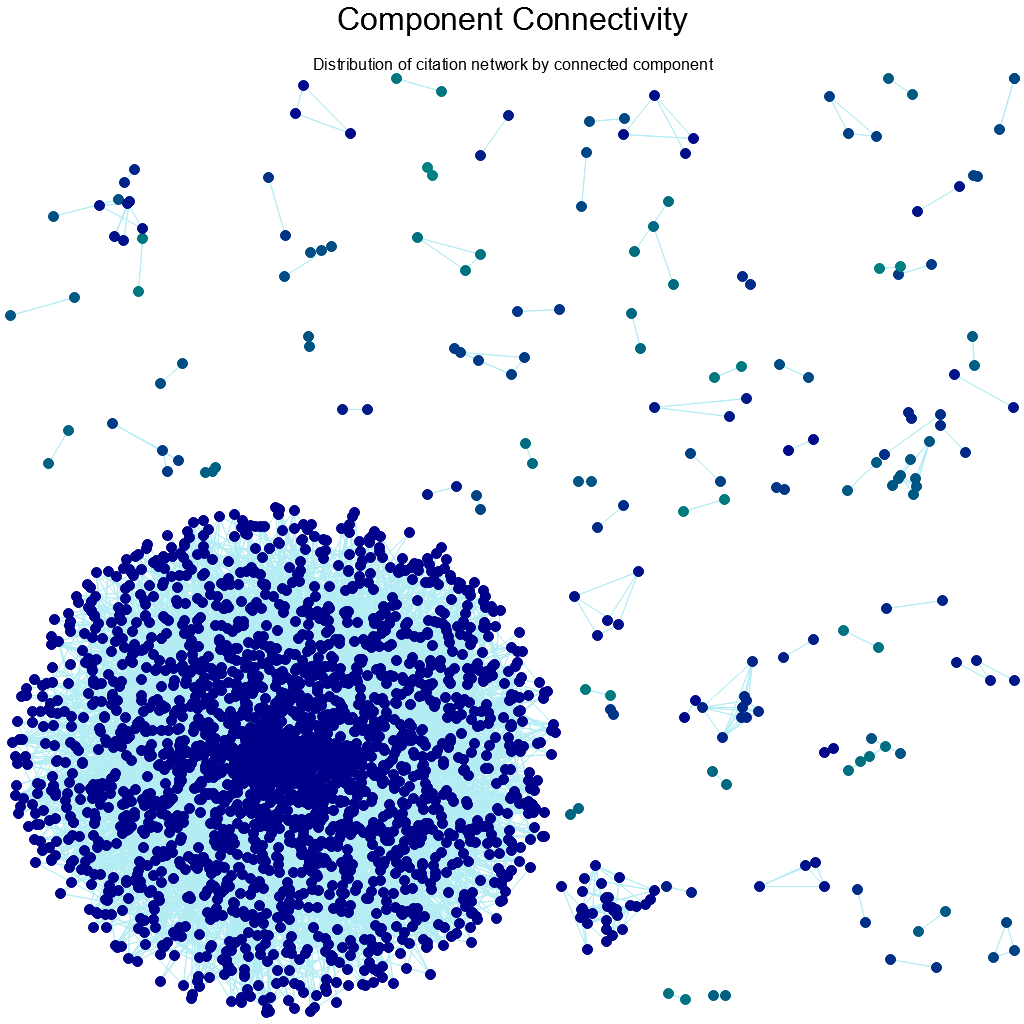
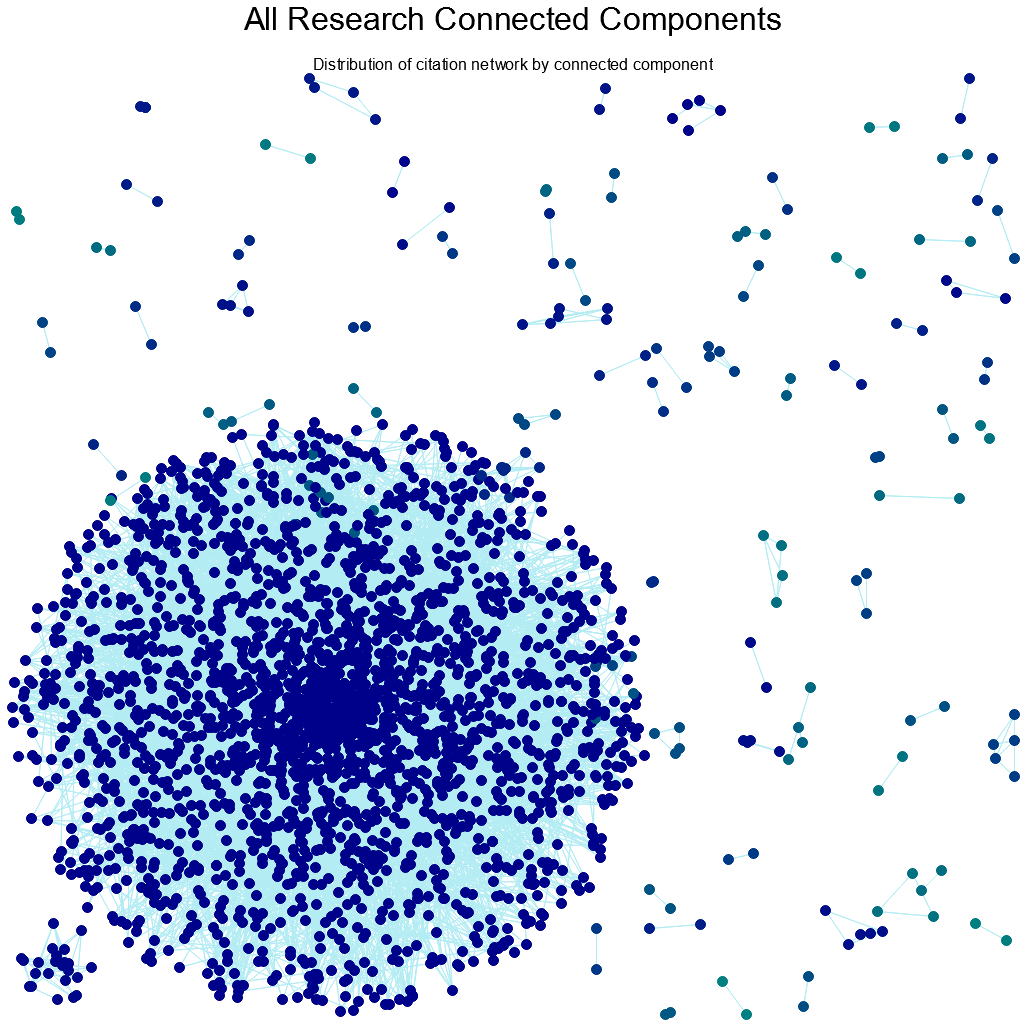
Implemented SubGraph Plotting

diff --git a/src/graph/mod.rs b/src/graph/mod.rs
@@ -2,7 +2,8 @@ pub mod component_functions;
 pub mod visualization_support;
 
 use std::collections::{HashMap,VecDeque};
-
+use plotters::prelude::*;
+use rand::Rng;
 type Vertex = usize;
 type Edge = (Vertex, Vertex);
 type AdjacencyList = Vec<Vec<Vertex>>;
@@ -10,11 +11,11 @@ type Component = usize;
 
 #[derive(Debug,Clone)]
 #[allow(dead_code)] //Allowed for now until ML features get developed
-struct NodeData{
-    mapped_node:usize,
-    label:String,
-    subject:String,
-    features:Vec<u8>
+pub struct NodeData{
+    pub mapped_node:usize,
+    pub label:String,
+    pub subject:String,
+    pub features:Vec<u8>
 }
 //Function for NodeData to read from csv
 impl NodeData{
@@ -95,6 +96,48 @@ impl Graph{
         
         return Ok(Graph::create_directed(node_data.len(),&edges,node_data,reverse_hash));
     }
+    
+    pub fn calculate_subgraphs(self) -> Vec<(String,Self)>{
+        //RETHINK THIS APPROACH CITATION CIRCLES WON'T WORK HERE
+
+        let mut subject_graph_info = HashMap::<String, (usize, AdjacencyList, HashMap<usize, NodeData>, HashMap<usize,usize>)>::new();
+
+        //For each point in the grpah
+        for i in 0..self.n{
+            let original_node = self.reverse_map.get(&i).unwrap(); //Get the original node
+            let node_data = self.node_data.get(&original_node).unwrap(); //Get the original node's data
+            let subject = node_data.subject.clone(); //Get the subject of the original node
+            let mut outedge = self.outedges[i].clone(); //Get the edges from the mapped_node
+            outedge = outedge.iter().map(|edge| *self.reverse_map.get(edge).unwrap()).collect();
+            //init a new entry or get the existing entry from the subject hash
+            let existing_subject_data = subject_graph_info.entry(subject).or_insert((0,vec![],HashMap::new(),HashMap::new())); 
+            existing_subject_data.0 += 1; //Count 1 more vertex
+            existing_subject_data.1.push(outedge); //Append Adjacency list (of original nodes)
+            existing_subject_data.3.insert(existing_subject_data.0 - 1, *original_node); //Guide to reverse the mapping in the new graph
+
+            let mut adjusted_node_data = node_data.clone();
+            adjusted_node_data.mapped_node = existing_subject_data.0 -1;
+            existing_subject_data.2.insert(*original_node,adjusted_node_data); //Node Data
+        }
+
+        //Hash search a subject and get the nodes in that subject
+        let mut output = Vec::new();
+        for (subject, (n, adj_list, node_data,reverse_map)) in subject_graph_info{
+            let mut adjusted_outedges:Vec<Vec<usize>> = Vec::new();
+            for outedge in adj_list.iter(){
+                let mut adjusted_outedge:Vec<usize> = Vec::new();
+                for edge in outedge{
+                    if node_data.contains_key(&edge){
+                        adjusted_outedge.push(node_data.get(&edge).unwrap().mapped_node);
+                    }
+                }
+                adjusted_outedges.push(adjusted_outedge);
+            }
+            output.push((subject,Graph{n,outedges:adjusted_outedges,node_data,reverse_map}));
+        }
+        return output
+    }
+
     pub fn connected_components(&self) -> (Vec<Option<Component>>, usize){
         let mut component:Vec<Option<Component>> = vec![None;self.n];
         let mut component_count = 0;
@@ -105,5 +148,81 @@ impl Graph{
             }
         }
         return (component, component_count + 1)
+    }
+    //Create a png graph of the connected components of the graph
+    pub fn visualize_connectivity(
+        &self,
+        output_file: &str,
+        biggest_circle: f64,
+        output_size:(u32,u32),
+        title:&str
+    ) -> Result<(), Box<dyn std::error::Error>> {
+        let root = BitMapBackend::new(output_file, output_size).into_drawing_area();
+        root.fill(&WHITE)?;
+    
+        // Title for the graph
+        let root_area = root.titled(title, ("sans-serif", 40))?;
+    
+        // Determine the bounds of the drawing area
+        let drawing_area = (-500,500,-500,500);
+        let (x_min, x_max, y_min, y_max) = drawing_area;
+
+        let mut cc = ChartBuilder::on(&root_area)
+            .margin(10)
+            .caption("Distribution of citation network by connected component", ("sans-serif", 20))
+            .build_cartesian_2d(x_min..x_max, y_min..y_max)?;
+    
+        cc.configure_mesh().disable_mesh().draw()?;
+    
+        //Run algorithm
+        let (components,num_components) = self.connected_components();
+        
+        // Step 1: Assign positions to nodes, clustered by components
+        let range_hash = visualization_support::get_graph_dimensions(&components, num_components, drawing_area, biggest_circle,50.0);
+        let mut rng = rand::thread_rng();
+        let mut positions: HashMap<usize, (i32, i32)> = HashMap::new();
+    
+        for (i, component) in components.iter().enumerate() {
+            if let Some(comp) = component {
+                if let Some((center, radius)) = range_hash.get(comp) {
+                    let (center_x, center_y) = *center;
+    
+                    // Generate random position within the circle using polar coordinates
+                    let random_angle = rng.gen_range(0.0..(2.0 * std::f64::consts::PI)); // Random angle
+                    let random_radius = rng.gen_range(0.0..=*radius); // Random radius (uniform distribution)
+    
+                    let offset_x = random_radius * random_angle.cos();
+                    let offset_y = random_radius * random_angle.sin();
+    
+                    let node_x = (center_x + offset_x) as i32;
+                    let node_y = (center_y + offset_y) as i32;
+                    positions.insert(i, (node_x, node_y));
+                }
+            }
+        }
+    
+        // Step 2: Draw edges between nodes
+        for (node, neighbors) in self.outedges.iter().enumerate() {
+            if let Some(&(x1, y1)) = positions.get(&node) {
+                for &neighbor in neighbors {
+                    if let Some(&(x2, y2)) = positions.get(&neighbor) {
+                        cc.draw_series(LineSeries::new(vec![(x1, y1), (x2, y2)], &full_palette::CYAN_100))?;
+                    }
+                }
+            }
+        }
+    
+        // Step 3: Draw nodes as circles with color based on their component
+        for (node, &(x, y)) in positions.iter() {
+            if let Some(component) = components[*node] {
+                // Get the color for the component
+                let color = visualization_support::get_color_from_gradient(component,num_components);
+    
+                // Draw the node with the assigned color
+                cc.draw_series(std::iter::once(Circle::new((x, y), 5, color.filled())))?;
+            }
+        }
+    
+        Ok(())
     }
 }

diff --git a/src/graph/visualization_support/mod.rs b/src/graph/visualization_support/mod.rs
@@ -36,7 +36,7 @@ pub fn show_aggregation(points:&Vec<f64>,filename:&str) -> Result<(), Box<dyn st
     Ok(())
 }
 
-fn get_graph_dimensions(
+pub fn get_graph_dimensions(
     component: &Vec<Option<usize>>, 
     num_components: usize, 
     drawing_bounds: (i32, i32, i32, i32),
@@ -127,7 +127,7 @@ fn get_graph_dimensions(
 }
 
 
-fn interpolate_color(start_color: (u8, u8, u8), end_color: (u8, u8, u8), t: f64) -> (u8, u8, u8) {
+pub fn interpolate_color(start_color: (u8, u8, u8), end_color: (u8, u8, u8), t: f64) -> (u8, u8, u8) {
     let (r_start, g_start, b_start) = start_color;
     let (r_end, g_end, b_end) = end_color;
 
@@ -138,7 +138,7 @@ fn interpolate_color(start_color: (u8, u8, u8), end_color: (u8, u8, u8), t: f64)
     (r, g, b)
 }
 
-fn get_color_from_gradient(index: usize, total: usize) -> RGBAColor {
+pub fn get_color_from_gradient(index: usize, total: usize) -> RGBAColor {
     // Define the start and end colors (dark blue to teal)
     let dark_blue = (0, 0, 139);  // RGB for dark blue
     let teal = (0, 128, 128);    // RGB for teal
@@ -149,76 +149,4 @@ fn get_color_from_gradient(index: usize, total: usize) -> RGBAColor {
     // Interpolate the color based on the normalized value
     let (r,g,b) = interpolate_color(dark_blue, teal, t);
     RGBAColor(r,g,b,1.0)
-}
-
-pub fn visualize_graph(
-    output_file: &str,
-    adjacency_list: &Vec<Vec<usize>>,
-    components: &Vec<Option<usize>>,
-    num_components: usize,
-    biggest_circle: f64
-) -> Result<(), Box<dyn std::error::Error>> {
-    let root = BitMapBackend::new(output_file, (1024, 1024)).into_drawing_area();
-    root.fill(&WHITE)?;
-
-    // Title for the graph
-    let root_area = root.titled("Component Connectivity", ("sans-serif", 40))?;
-
-    // Determine the bounds of the drawing area
-    let (x_min, x_max, y_min, y_max) = (-500, 500, -500, 500);
-
-    let mut cc = ChartBuilder::on(&root_area)
-        .margin(10)
-        .caption("Distribution of citation network by connected component", ("sans-serif", 20))
-        .build_cartesian_2d(x_min..x_max, y_min..y_max)?;
-
-    cc.configure_mesh().disable_mesh().draw()?;
-
-    // Step 1: Assign positions to nodes, clustered by components
-    let range_hash = get_graph_dimensions(components, num_components, (-500, 500, -500, 500), biggest_circle,50.0);
-    let mut rng = rand::thread_rng();
-    let mut positions: HashMap<usize, (i32, i32)> = HashMap::new();
-
-    for (i, component) in components.iter().enumerate() {
-        if let Some(comp) = component {
-            if let Some((center, radius)) = range_hash.get(comp) {
-                let (center_x, center_y) = *center;
-
-                // Generate random position within the circle using polar coordinates
-                let random_angle = rng.gen_range(0.0..(2.0 * std::f64::consts::PI)); // Random angle
-                let random_radius = rng.gen_range(0.0..=*radius); // Random radius (uniform distribution)
-
-                let offset_x = random_radius * random_angle.cos();
-                let offset_y = random_radius * random_angle.sin();
-
-                let node_x = (center_x + offset_x) as i32;
-                let node_y = (center_y + offset_y) as i32;
-                positions.insert(i, (node_x, node_y));
-            }
-        }
-    }
-
-    // Step 2: Draw edges between nodes
-    for (node, neighbors) in adjacency_list.iter().enumerate() {
-        if let Some(&(x1, y1)) = positions.get(&node) {
-            for &neighbor in neighbors {
-                if let Some(&(x2, y2)) = positions.get(&neighbor) {
-                    cc.draw_series(LineSeries::new(vec![(x1, y1), (x2, y2)], &full_palette::CYAN_100))?;
-                }
-            }
-        }
-    }
-
-    // Step 3: Draw nodes as circles with color based on their component
-    for (node, &(x, y)) in positions.iter() {
-        if let Some(component) = components[*node] {
-            // Get the color for the component
-            let color = get_color_from_gradient(component,num_components);
-
-            // Draw the node with the assigned color
-            cc.draw_series(std::iter::once(Circle::new((x, y), 5, color.filled())))?;
-        }
-    }
-
-    Ok(())
 }

diff --git a/src/main.rs b/src/main.rs
@@ -1,13 +1,10 @@
-//Internal Crates
+//Import all graph functions
 mod graph;
 use graph::Graph;
 use graph::component_functions::*;
-use graph::visualization_support::{show_aggregation,visualize_graph};
-
+use graph::visualization_support::show_aggregation;
 fn main() {
     let graph = Graph::from_csvs("citation_network\\edges.csv","citation_network\\nodes.csv").unwrap();
-
-    graph.connected_components();
     
     let (component,num_components) = graph.connected_components();
     let component_sizes = count_components(&component, num_components);
@@ -18,9 +15,16 @@ fn main() {
     //Plot the component effectiveness
     show_aggregation(&component_scale, "plots\\component_aggregation.png").expect("Error in Aggregate Image Creation");
     //REALLY cool custom visual that shows the connectivity of the graph components
-    visualize_graph("plots\\connected_components.png", &graph.outedges, &component,num_components,3.5).expect("Error in Connected Image Creation");
+    graph.visualize_connectivity("plots\\connected_components.png", 3.0, (1024,1024),"All Research Connected Components").unwrap();
+
+    let subgraphs = graph.calculate_subgraphs();
+    for (subject, subgraph) in subgraphs.iter(){
+        let (component, num_components) = subgraph.connected_components();
+        let component_scale = get_component_scale(&component, num_components, true);
+        println!("Papers in {} have {} components with the following component scale::\n{:?}\n",subject,num_components,component_scale);
+        subgraph.visualize_connectivity(
+            &format!("plots\\subgraphs\\{}_connectivity.png",subject),
+            3.0, (1024,1024), 
+            &format!("Connectivity of Research Papers in {}",subject)).unwrap();
+    }
 }
-
-
-
-
